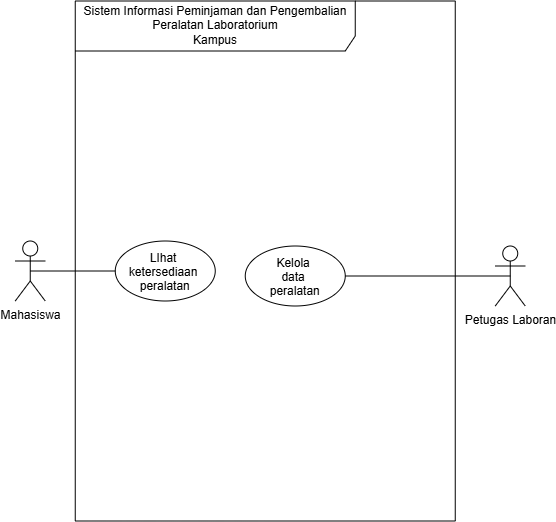
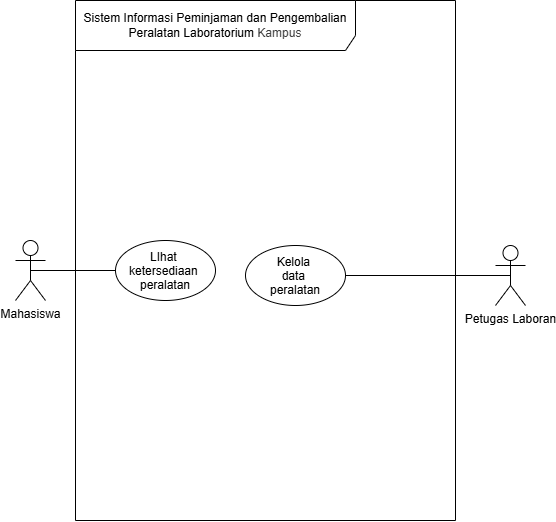
Pertemuan 3 Use Case Diagram

Changed region(s): [[0.0, 0.0, 1.0, 1.0], [0.4586, 0.4598, 0.6115, 0.613], [0.4281, 0.5211, 0.4586, 0.5517]]

diff --git a/03_latihan_tools/P03/SIA/P03_2406123_deskripsi_v01.md b/03_latihan_tools/P03/SIA/P03_2406123_deskripsi_v01.md
@@ -1,40 +1,24 @@
 # Ajukan KRS
-|-----------------------|----------------------------------------------------------------|
-| Elemen                | SIA-R03 - Ajukan KRS                                           |
-|-----------------------|--------------------------------------------------------------- |
-| Tujuan                | Menghasilkan pengajuan KRS yang dipilih                        |
-| Aktor utama           | Mahasiswa                                                      |
-| Sumber kebutuhan      | SIA-R03 dan SIA-R04                                            |
-| Pemicu                | Mahasiswa memilih fungsi pengajuan KRS                         |
-| Prasyarat             | Mahasiswa telah terautentikasi; data mata kuliah tersedia      |
-| Pascakondisi berhasil | Pengajuan tersimpan dan jadwal tersedia                        |
-| Pascakondisi gagal    | Tidak ada pengajuan baru yang berhasil tersimpan               |
-| Include               | LAB-UC04 — Periksa ketersediaan                                |
-| Extension point       | Bukti pengajuan tersedia, pada langkah 6                       |
-| Extend                | LAB-UC05 jika [mahasiswa memilih cetak]                        |
-|-----------------------|----------------------------------------------------------------|
+|-----------------------+---------------------------------------------------------------------------|
+| Elemen                |                         SIA-R03 - Ajukan KRS                              |
+|-----------------------+---------------------------------------------------------------------------|
+| Tujuan                | Menghasilkan pengajuan KRS yang dipilih                                   |
+| Aktor utama           | Mahasiswa                                                                 |
+| Sumber kebutuhan      | SIA-R03 dan SIA-R04                                                       |
+| Pemicu                | Mahasiswa memilih fungsi pengajuan KRS                                    |
+| Prasyarat             | Mahasiswa telah terautentikasi; data mata kuliah tersedia                 |
+| Pascakondisi berhasil | Pengajuan tersimpan dan jadwal tersedia; menunggu persetujuaan dosen wali |
+| Pascakondisi gagal    | Data gagal tersimpan                                                      |
+| Include               | SIA-R04 - Validasi KRS                                                    |
+| Extension point       | Konfirmasi penyimpanan /bukti pengajuan tersedia                          |  
+| Extend                | SIA-UC05- jika [mahasiswa memilih menyimpan bukti ]                       |
+|-----------------------+---------------------------------------------------------------------------|
 
-# Ajukan KRS
-
-| Elemen                | SIA-R03 — mengajukan KRS                                    |
-| :---------------------|:----------------------------------------------------------- |
-| Tujuan                | Menghasilkan pengajuan KRS                                  |
-| Aktor utama           | Mahasiswa                                                   |
-| Sumber kebutuhan      | SIA-R03 dan SIA-R04                                         |
-| Pemicu                | Mahasiswa memilih fungsi pengajuan KRS                      |
-| Prasyarat             | Mahasiswa telah terautentikasi; data mata kuliah,           |
-|                       | jadwal tersedia                                             |
-| Pascakondisi berhasil | Pengajuan KRS, menyimpan pengajuan berstatus menunggu       |
-|                       | persetujuan dosen wali                                      |
-| Pascakondisi gagal    | Tidak Berhasil data gagal disimpan                          |
-| Include               | SIA-R04 - Validasi KRS                                      |
-| Extension point       | Konfirmasi penyimpanan /bukti pengajuan tersedia            |
-| Extend                | SIA-UC05- jika [mahasiswa memilih menyimpan bukti ]         |
 
 # Validasi KRS.
-
-| Elemen                | SIA-R04 — Validasi KRS                                      |
-|:----------------------|:------------------------------------------------------------|
+|-----------------------+-------------------------------------------------------------|
+| Elemen                |                 SIA-R04 — Validasi KRS                      |
+|-----------------------+-------------------------------------------------------------|
 | Tujuan                | Memastikan pengajuan KRS memenuhi ketentuan                 |
 | Aktor utama           | Sistem                                                      |
 | Sumber kebutuhan      | SIA-R03 dan SIA-R04                                         |
@@ -46,10 +30,11 @@
 | Include               | -                                                           |
 | Extension point       | Hasil validasi KRS                                          |
 | Extend                | -                                                           |
+|-----------------------+-------------------------------------------------------------|
 
-# Unduh bukti pengajuan KRS.
-
-| Elemen                | SIA-UC06 — Proses Keputusan KRS                             |
+# Unduh bukti pengajuan KRS
+|-----------------------+-------------------------------------------------------------|
+| Elemen                |            SIA-UC06 — Proses Keputusan KRS                  |
 |:----------------------|:------------------------------------------------------------|
 | Tujuan                | Menentukan persetujuan atau penolakan pengajuan KRS         |
 | Aktor utama           | Dosen Wali                                                  |
@@ -62,11 +47,11 @@
 | Include               | -                                                           |
 | Extension point       | Penentuan keputusan KRS                                     |
 | Extend                | -                                                           |
+|-----------------------+-------------------------------------------------------------|
 
 # Proses keputusan KRS.
-
-
-| Elemen                | SIA-UC06 — Proses Keputusan KRS                             |
+|-----------------------+-------------------------------------------------------------|
+| Elemen                |            SIA-UC06 — Proses Keputusan KRS                  |
 |:----------------------|:------------------------------------------------------------|
 | Tujuan                | Menentukan persetujuan atau penolakan pengajuan KRS         |
 | Aktor utama           | Dosen Wali                                                  |
@@ -79,3 +64,4 @@
 | Include               | -                                                           |
 | Extension point       | Penentuan keputusan KRS                                     |
 | Extend                | -                                                           |
+|-----------------------+-------------------------------------------------------------|

diff --git a/01_skenario/P03_SIA_skenario_v01.md b/01_skenario/P03_SIA_skenario_v01.md
@@ -1,14 +1,16 @@
 Mahasiswa mengajukan KRS dengan memilih mata kuliah Setiap pengajuan menjalankan validasi KRS yang memeriksa kelengkapan, prasyarat mata kuliah, dan benturan jadwal. Jika validasi berhasil, sistem menyimpan pengajuan berstatus menunggu persetujuan dosen wali. Pada konfirmasi penyimpanan, mahasiswa dapat memilih mengunduh bukti pengajuan. Dosen wali menyetujui atau menolak KRS dan memberikan catatan keputusan.
 
 # Tabel Daftar Kebutuhan Sistem
-|   ID   |                Kebutuhan Tugas                                           |
-|--------|--------------------------------------------------------------------------|
+|--------+--------------------------------------------------------------------------|
+|   ID   |                          Kebutuhan Tugas                                 |
+|--------+--------------------------------------------------------------------------|
 |SIA-R01 | Mahasiswa dapat melihat jadwal kuliah                                    |
 |SIA-R02 | Admin akademik dapat mengelola jadwal kuliah                             | 
 |SIA-R03 | Mahasiswa dapat mengajukan KRS                                           |
 |SIA-R04 | Sistem memvalidasi KRS sebagai bagian pengajuan                          |
 |SIA-R05 | Mahasiswa dapat mengunduh bukti jika memilihnya pada konfirmasi pengajuan|
 |SIA-R06 | Dosen wali dapat memproses persetujuan atau penolakan KRS                |
+|--------+--------------------------------------------------------------------------|
 
 Batas dan asumsi:
 • Pengguna telah terautentikasi.
@@ -19,9 +21,33 @@ Batas dan asumsi:
 • Pembayaran, pengisian nilai, dan implementasi basis data berada di luar tugas.
 
 # Tabel Identifikasi Aktor
-|  Aktor    | Tujuan Terhadap Sistem                                                                                                 |  
-|-----------|------------------------------------------------------------------------------------------------------------------------|
-|Mahasiswa  | Mengajukan KRS dengan memilih mata kuliah; Memilih apakah akan mengunduh bukti pengajuan KRS setelah berhasil disimpan |
-|Dosen Wali | Memeriksa pengajuan KRS mahasiswa; Menyetujui atau menolak KRS dan memberikan catatan keputusan                        |
+|------------+-----------------------------------------------------------------------------|
+|  Aktor     | Tujuan Terhadap Sistem                                                      |  
+|------------+-----------------------------------------------------------------------------|
+| Mahasiswa  | Mengajukan KRS dengan memilih mata kuliah;                                  |
+|            | Memilih apakah akan mengunduh bukti pengajuan KRS setelah berhasil disimpan |
+| Dosen Wali | Memeriksa pengajuan KRS mahasiswa;                                          |
+|            | Menyetujui atau menolak KRS dan memberikan catatan keputusan                |
+|------------+-----------------------------------------------------------------------------|
 
 # Tabel Daftar Use Case
+|----------+---------------------------------------------------------|
+|    ID    | Nama use case	Peran dalam model                        |
+|----------+---------------------------------------------------------|
+| SIA-UC01 | Ajukan KRS	Fungsi utama mahasiswa                       | 
+| SIA-UC02 | Validasi KRS	Perilaku yang disertakan UC01            | 
+| SIA-UC03 | Unduh bukti pengajuan KRS	Tambahan bersyarat pada UC01 |
+| SIA-UC04 | Proses keputusan KRS	Fungsi utama dosen wali          |
+|----------+---------------------------------------------------------|
+
+# Relasi Include
+SIA-UC03 «include» SIA-UC04 
+Extension point: Bukti pengajuan tersedia.
+Kondisi: [mahasiswa memilih mengunduh bukti].
+Alasan: validasi kelengkapan, prasyarat, dan benturan jadwal selalu menjadi bagian dari setiap pengajuan KRS.
+
+# Relasi Extend
+SIA-UC05 «extend» SIA-UC03 
+Extension point: Bukti pengajuan tersedia 
+Kondisi: [mahasiswa memilih unduh] 
+Alasan: pengajuan tetap berhasil tanpa pengunduhan bukti.

diff --git a/06_laporan/P03_2406123_jobsheet_review_v01.md b/06_laporan/P03_2406123_jobsheet_review_v01.md
@@ -1,0 +1,11 @@
+|---+-----------------------------------------------------------------------------------------+--------------------------------------------------------------------------------- +--------------------------------------------------------------------------------------------|
+|No.|                                 Temuan                                                  |                            Perbaikan yang Diperlukan                             |                                    Alasan                                                  |
+|---+-----------------------------------------------------------------------------------------+----------------------------------------------------------------------------------+--------------------------------------------------------------------------------------------|
+|1  |Use case Memvalidasi KRS belum dihubungkan dengan Mengajukan KRS                         | Tambahkan relasi <<include>> dari Mengajukan KRS ke Memvalidasi KRS              | Validasi merupakan bagian wajib dari proses pengajuan KRS                                  |
+|2  |Use case Mengunduh Bukti Pengajuan KRS belum menggunakan relasi <<extend>>               | Tambahkan relasi <<extend>> dari Mengunduh Bukti Pengajuan KRS ke Mengajukan KRS | Mengunduh bukti merupakan pilihan mahasiswa dan bukan syarat keberhasilan pengajuan        |
+|3  |Aktor Admin Akademik belum dihubungkan dengan use case Mengelola Jadwal Kuliah           | Hubungkan Admin Akademik dengan use case Mengelola Jadwal Kuliah                 | Pengelolaan jadwal kuliah merupakan tanggung jawab Admin Akademik sesuai kebutuhan SIA-R02 |
+|4  |Use case Memproses Keputusan KRS belum dihubungkan dengan aktor Dosen Wali               | Hubungkan Dosen Wali dengan use case Memproses Keputusan KRS                     | Dosen Wali berwenang memproses persetujuan atau penolakan KRS                              |
+|5  |Diagram belum mencantumkan seluruh fungsi yang dibutuhkan dalam Sistem Informasi Akademik| Lengkapi diagram dengan enam use case sesuai kebutuhan SIA-R01 sampai SIA-R06    | Diagram perlu mencerminkan kebutuhan sistem yang dimodelkan                                |
+|---+-----------------------------------------------------------------------------------------+--------------------------------------------------------------------------------- +--------------------------------------------------------------------------------------------|
+
+

diff --git a/06_laporan/P02_2406123_jobsheet_review_v01.md b/06_laporan/P02_2406123_jobsheet_review_v01.md
@@ -1,5 +1,8 @@
-No. |             Temuan                                |         Perbaikan yang diperlukan                             |Alasan
-1   |aktor mahasiswa berada di dalam batas sistem       |Pindahkan aktor harus berada di luar batas sistem              |Karena aktor merupakan pengguna 
-2   |fungsi "lihat jadwal kuliah" berbentuk kotak       |Ubah fungsi "lihat jadwal kuliah" harus berbentuk elips        |Karena simbol fungsi harus berbentuk elips
-3   |Identitas diagram berjudul sistem laboratorium     |Identitas diagram harusnya berjudul Sistem Informasi Akademik  |Karena kasus sedang membahas Sistem Informasi Akademik
-4   |Aktor mahasiswa terhubung ke "kelola jadwal kuliah"|Aktor mahasiswa harus terhubung ke "kelola jadwal kuliah"      |Karena aktor mahasiswa tidak boleh mengelola jadwal dan hanya bisa melihat jadwal
+|----+---------------------------------------------------+---------------------------------------------------------------+----------------------------------------------------------|
+|No. |                    Temuan                         |         Perbaikan yang diperlukan                             |                        Alasan                            |
+|----+---------------------------------------------------+---------------------------------------------------------------+----------------------------------------------------------|
+|1   |Aktor mahasiswa diletakkan di dalam batas sistem   |Pindahkan aktor Mahasiswa ke luar batas sistem                 |Karena aktor merupakan entitas eksternal                  |
+|2   |Fungsi "lihat jadwal kuliah" berbentuk kotak       |Ubah fungsi "lihat jadwal kuliah" menjadi bentuk elips         |Karena standar UML use case harus berbentuk elips         |
+|3   |Identitas diagram berjudul sistem laboratorium     |Identitas diagram harusnya berjudul Sistem Informasi Akademik  |Karena kasus sedang membahas Sistem Informasi Akademik    | 
+|4   |Aktor mahasiswa terhubung ke "kelola jadwal kuliah"|Aktor mahasiswa harus terhubung ke "kelola jadwal kuliah"      |Karena aktor mahasiswa hanya boleh melihat jadwal kuliah  |
+|----+---------------------------------------------------|---------------------------------------------------------------+----------------------------------------------------------|

diff --git a/03_latihan_tools/P03/LAB/P03_2406123_LAB_deskripsi_v01.md b/03_latihan_tools/P03/LAB/P03_2406123_LAB_deskripsi_v01.md
@@ -1,6 +1,7 @@
-# USECASE DESCRIPTION 
-| Elemen                | LAB-UC03 — Ajukan peminjaman                                   |
-|-----------------------|--------------------------------------------------------------- |
+# USECASE DESCRIPTION
+|-----------------------+----------------------------------------------------------------|
+| Elemen                |                 LAB-UC03 — Ajukan peminjaman                   |
+|-----------------------+--------------------------------------------------------------- |
 | Tujuan                | Menghasilkan pengajuan peminjaman yang tersimpan               |
 | Aktor utama           | Mahasiswa                                                      |
 | Sumber kebutuhan      | LAB-R03 dan LAB-R04                                            |
@@ -11,3 +12,4 @@
 | Include               | LAB-UC04 — Periksa ketersediaan                                |
 | Extension point       | Bukti pengajuan tersedia, pada langkah 6                       |
 | Extend                | LAB-UC05 jika [mahasiswa memilih cetak]                        |
+|-----------------------+----------------------------------------------------------------|

diff --git a/02_template/template_metadata_artefak_v03.md b/02_template/template_metadata_artefak_v03.md
@@ -1,11 +1,11 @@
 ID artefak        : LAB-P03-UC
-Judul             : Latihan notasi fungsi laboratorium
-Pertemuan         : 03
-Sumber kebutuhan  : LAB-R01; LAB-R02; LAB-R03
-Jenis/status      : Use case diagram / LATIHAN NOTASI
+Judul             : Penulisan relasi pada use case diagram
+Pertemuan         : 3
+Sumber kebutuhan  : modul
+Jenis/status      : Use case diagram / relasi
 Kakas             : draw.io
-Pembuat           : Aina Anastasya_2406123
-Versi dan tanggal : v01 / [18 Oktober 2026]
+Pembuat           : 406123 Aina Anastasya
+Versi dan tanggal : v01 / [14 Oktober 2026]
 Asumsi            : Hak akses sesuai; autentikasi di luar latihan
 Pemeriksaan       : [hasil review]
 Riwayat revisi    : [perubahan yang benar-benar dilakukan]

diff --git a/04_model_analisis/P03/LAB/P03_2406123_LAB_model_analisis.md b/04_model_analisis/P03/LAB/P03_2406123_LAB_model_analisis.md
@@ -1,0 +1,13 @@
+# Tabel Hubungan Use Case 
+|----------------------+------------+----------|
+|         Sumber       |  Hubungan  |   Tujuan |
+|----------------------+------------+----------|
+| Mahasiswa            | Asosiasi	| LAB-UC01 |
+| Mahasiswa	           | Asosiasi   | LAB-UC03 |
+| Mahasiswa	           | Asosiasi   | LAB-UC05 |
+| Petugas laboratorium | Asosiasi   | LAB-UC02 |
+| Petugas laboratorium | Asosiasi	| LAB-UC06 |
+| Kepala  laboratorium | Asosiasi	| LAB-UC07 |
+| LAB-UC03	           | «include»  | LAB-UC04 |
+| LAB-UC05	           | «extend»   | LAB-UC03 |
+|----------------------+------------+----------|

diff --git a/04_model_analisis/P03/SIA/P03_2406123_SIA_model_analisis.md b/04_model_analisis/P03/SIA/P03_2406123_SIA_model_analisis.md
@@ -1,0 +1,12 @@
+# Tabel Hubungan Use Case 
+|----------------------+------------+----------|
+|         Sumber       |  Hubungan  |   Tujuan |
+|----------------------+------------+----------|
+| Mahasiswa            | Asosiasi	| SIA-UC01 |
+| Mahasiswa	           | Asosiasi   | SIA-UC03 |
+| Mahasiswa	           | Asosiasi   | SIA-UC05 |
+| Admin Akademik       | Asosiasi   | SIA-UC02 |
+| Dosen Wali           | Asosiasi	| SIA-UC06 |
+| SIA-UC03	           | «include»  | SIA-UC04 |
+| SIA-UC05	           | «extend»   | SIA-UC03 |
+|----------------------+------------+----------|

diff --git a/02_template/template_metadata_artefak_v01.md b/02_template/template_metadata_artefak_v01.md
@@ -2,9 +2,9 @@ ID artefak        : LAB-P01-UC
 Judul             : Pengenalan Lingkungan Praktikum dan Kakas Pemodelan UML
 Pertemuan         : 1
 Sumber skenario   : Modul
-Jenis/status      : latihan
+Jenis/status      : latihan 
 Kakas             : draw.io
-Pembuat           : 2406123
+Pembuat           : 2406123 Aina Anastasya
 Versi dan tanggal : V01 / [30 September 2026]
 Asumsi/pertanyaan : -
 Pemeriksaan       : -

diff --git a/02_template/template_metadata_artefak_v02.md b/02_template/template_metadata_artefak_v02.md
@@ -4,7 +4,7 @@ Pertemuan         : 2
 Sumber kebutuhan  : LAB-R01; LAB-R02
 Jenis/status      : Use case diagram / LATIHAN NOTASI
 Kakas             : draw.io
-Pembuat           : Aina Anastasya_2406123
+Pembuat           : 2406123 Aina Anastasya
 Versi dan tanggal : v01 / [07 Oktober 2026]
 Asumsi            : Hak akses sesuai; autentikasi di luar latihan
 Pemeriksaan       : [hasil review]

diff --git a/01_skenario/S-ORI-01_orientasi_kasus_v01.md b/01_skenario/S-ORI-01_orientasi_kasus_v01.md
@@ -1,4 +1,1 @@
-node awal →
-aktivitas “Buka daftar peralatan” →
-aktivitas “Lihat informasi ketersediaan” →
-node akhir aktivitas
+node awal → aktivitas “Buka daftar peralatan” → aktivitas “Lihat informasi ketersediaan” → node akhir aktivitas

diff --git a/README.md b/README.md
@@ -1,4 +1,4 @@
-# 📚 Catatan & Portofolio Praktikum Pemodelan UML
+# 📚 Praktikum Analisis & Desain Berorientasi Objek
 
 ---
 
